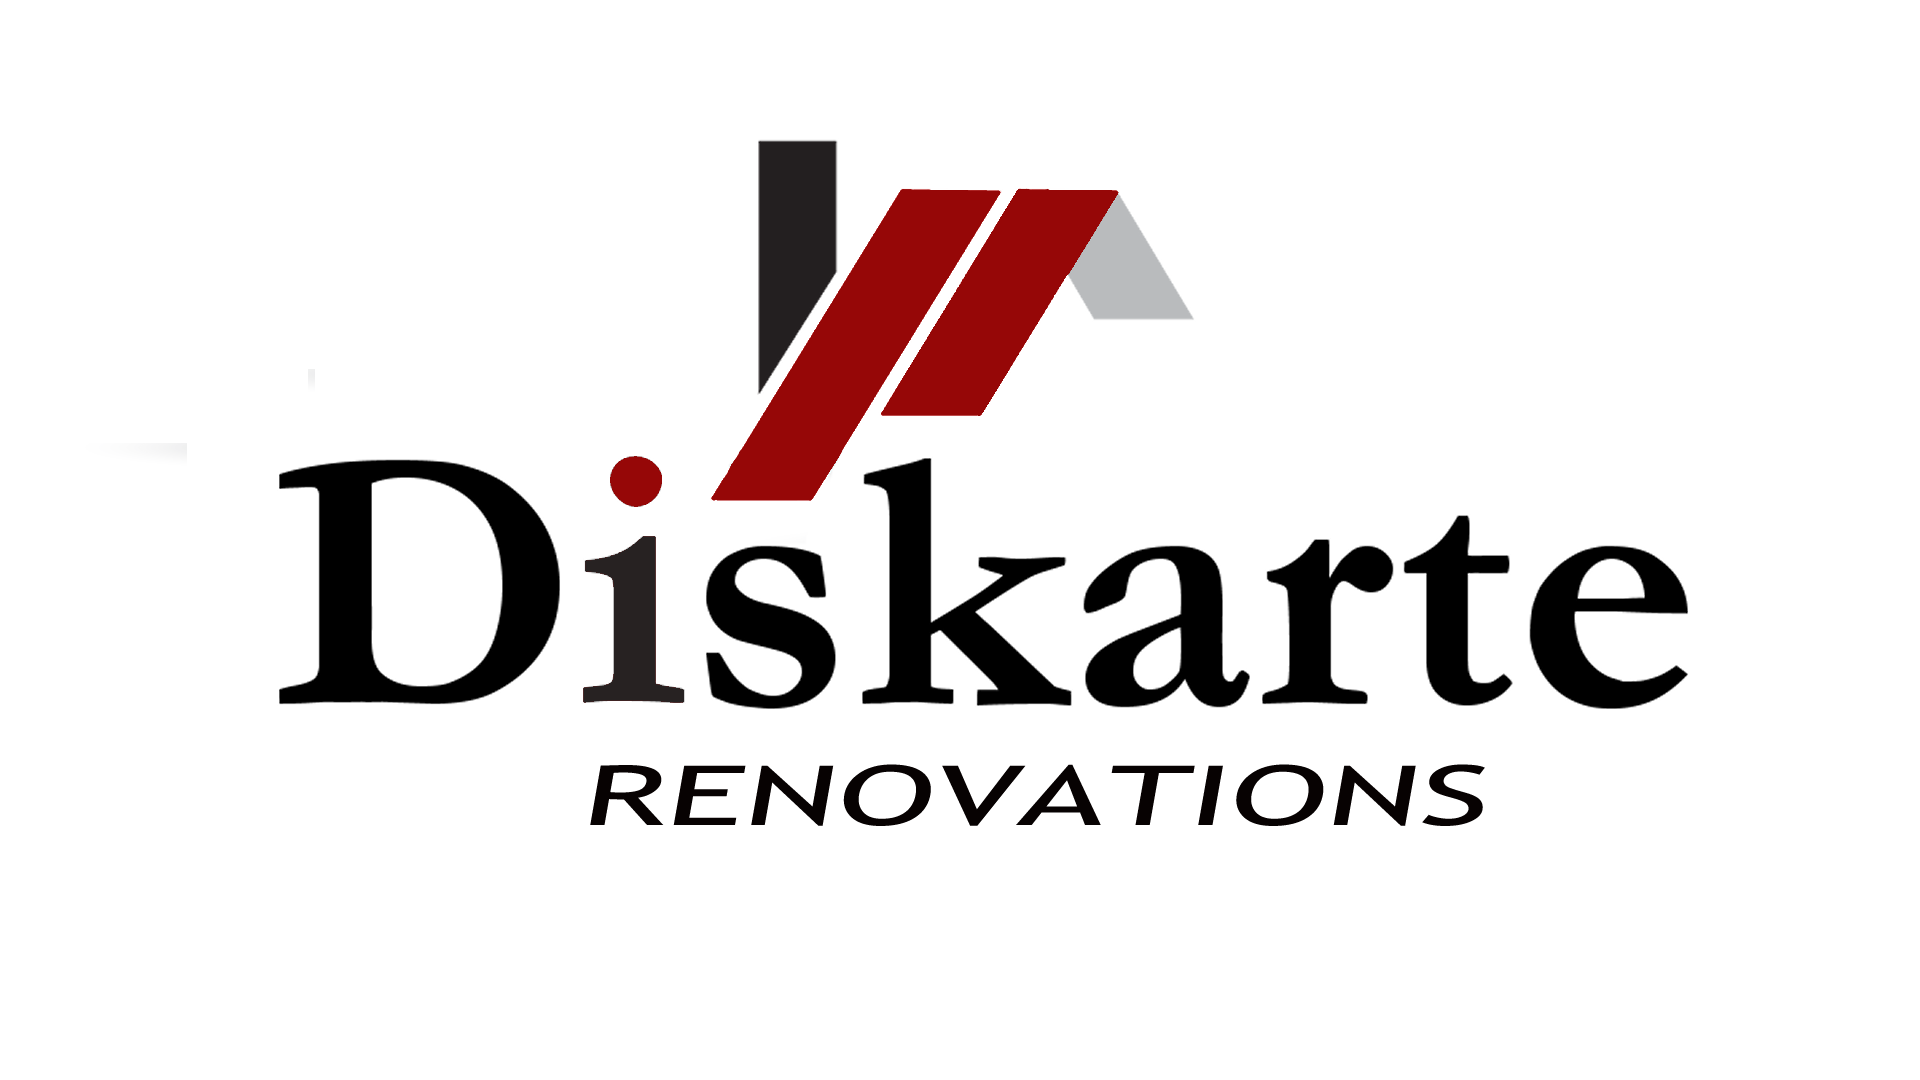
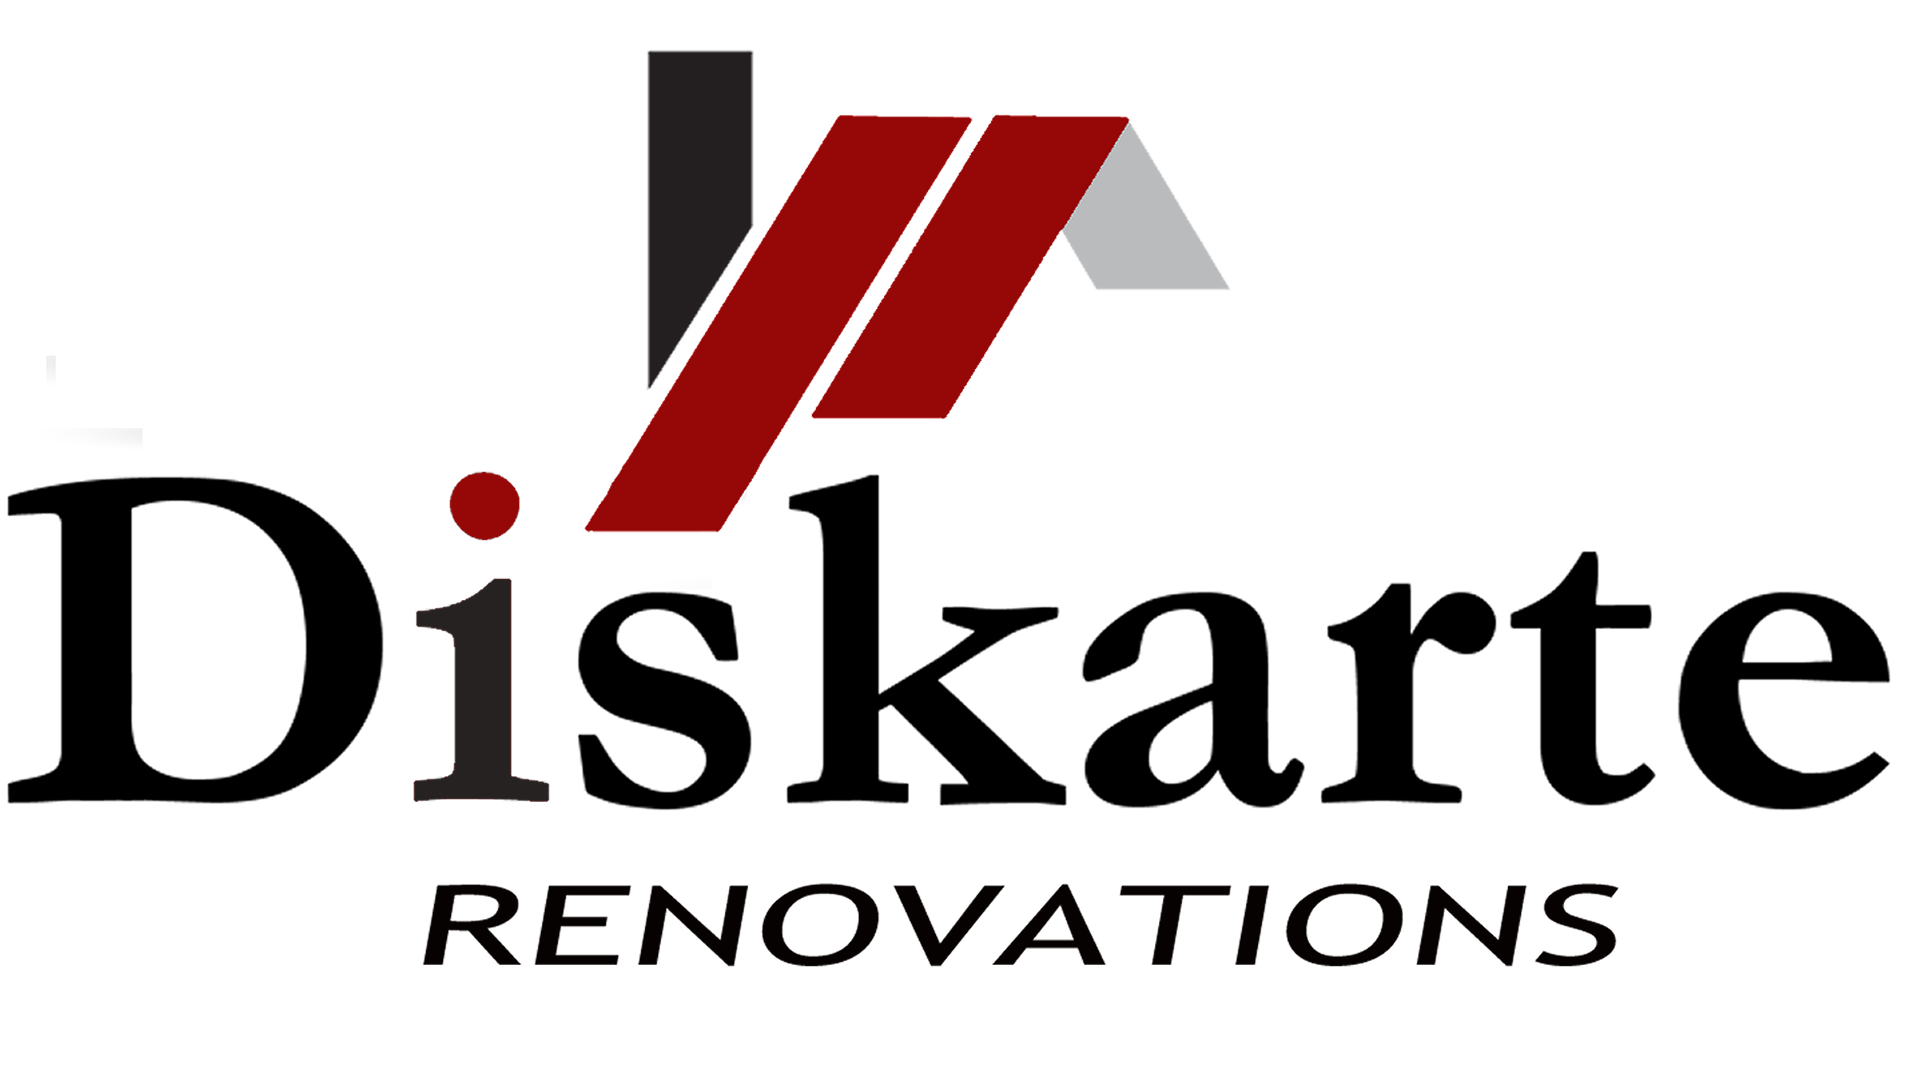
Add meta data

Changed region(s): [[0.0, 0.0306, 1.0, 0.7639], [0.2188, 0.7944, 0.8438, 0.9167]]

diff --git a/index.html b/index.html
@@ -3,16 +3,21 @@
 
 <head>
   <meta charset="UTF-8">
+  <meta property="og:title" content="Diskarte Renovations">
+  <meta property="og:image" content="images/diskarte_solid.png">
+  <meta name="description" content="We do roofing, deck and fences, and interior renvovations. Serving Kingston and the Surrounding Area.">
+  <meta name="keywords" content="Roofing, Deck and Fences, Interior Renovations">
   <meta name="viewport" content="width=device-width, initial-scale=1.0">
-  <title>Document</title>
+  <title>Diskarte Renovations</title>
   <link rel="stylesheet" href="https://cdnjs.cloudflare.com/ajax/libs/twitter-bootstrap/4.5.2/css/bootstrap.min.css">
   <link rel="stylesheet" href="https://cdnjs.cloudflare.com/ajax/libs/font-awesome/5.15.0/css/all.min.css">
   <link rel="stylesheet" href="css/main.css">
+  <link rel="icon" href="images/icon.png">
 </head>
 
 <body>
   <header>
-    <img src="images/diskarte_1.png" alt="diskarte_logo.png">
+    <img src="images/diskarte_solid.png" alt="diskarte_logo.png">
   </header>
   <nav class="navbar navbar-expand-lg">
     <button class="navbar-toggler custom-toggler" type="button" data-toggle="collapse" data-target="#navbarSupportedContent"

diff --git a/about.html b/about.html
@@ -3,16 +3,21 @@
 
 <head>
     <meta charset="UTF-8">
+    <meta property="og:title" content="Diskarte Renovations">
+    <meta property="og:image" content="images/diskarte_solid.png">
+    <meta name="description" content="We strive to provide excellent service and take pride in our craft.">
+    <meta name="keywords" content="Roofing, Deck and Fences, Interior Renovations">
     <meta name="viewport" content="width=device-width, initial-scale=1.0">
-    <title>Document</title>
+    <title>About Us</title>
     <link rel="stylesheet" href="https://cdnjs.cloudflare.com/ajax/libs/twitter-bootstrap/4.5.2/css/bootstrap.min.css">
     <link rel="stylesheet" href="https://cdnjs.cloudflare.com/ajax/libs/font-awesome/5.15.0/css/all.min.css">
     <link rel="stylesheet" href="css/main.css">
+    <link rel="icon" href="images/icon.png">
 </head>
 
 <body>
     <header>
-        <img src="images/diskarte_1.png" alt="diskarte_logo.png">
+        <img src="images/diskarte_solid.png" alt="diskarte_logo.png">
     </header>
     <nav class="navbar navbar-expand-lg">
         <button class="navbar-toggler custom-toggler" type="button" data-toggle="collapse"

diff --git a/contact.html b/contact.html
@@ -3,16 +3,21 @@
 
 <head>
     <meta charset="UTF-8">
+    <meta property="og:title" content="Diskarte Renovations">
+  <meta property="og:image" content="images/diskarte_solid.png">
+  <meta name="description" content="Call us or email us. We will get back to you as soon as possible.">
+  <meta name="keywords" content="Contact Us, Renovations">
     <meta name="viewport" content="width=device-width, initial-scale=1.0">
-    <title>Document</title>
+    <title>Contact Us</title>
     <link rel="stylesheet" href="https://cdnjs.cloudflare.com/ajax/libs/twitter-bootstrap/4.5.2/css/bootstrap.min.css">
     <link rel="stylesheet" href="https://cdnjs.cloudflare.com/ajax/libs/font-awesome/5.15.0/css/all.min.css">
     <link rel="stylesheet" href="css/main.css">
+    <link rel="icon" href="images/icon.png">
 </head>
 
 <body>
     <header>
-        <img src="images/diskarte_1.png" alt="diskarte_logo.png">
+        <img src="images/diskarte_solid.png" alt="diskarte_logo.png">
     </header>
     <nav class="navbar navbar-expand-lg">
         <button class="navbar-toggler custom-toggler" type="button" data-toggle="collapse"

diff --git a/gallery.html b/gallery.html
@@ -3,16 +3,21 @@
 
 <head>
     <meta charset="UTF-8">
+    <meta property="og:title" content="Diskarte Renovations">
+    <meta property="og:image" content="images/diskarte_solid.png">
+    <meta name="description" content="View our gallery of previous projects.">
+    <meta name="keywords" content="Roofing, Deck and Fences, Interior Renovations">
     <meta name="viewport" content="width=device-width, initial-scale=1.0">
-    <title>Document</title>
+    <title>Gallery</title>
     <link rel="stylesheet" href="https://cdnjs.cloudflare.com/ajax/libs/twitter-bootstrap/4.5.2/css/bootstrap.min.css">
     <link rel="stylesheet" href="https://cdnjs.cloudflare.com/ajax/libs/font-awesome/5.15.0/css/all.min.css">
     <link rel="stylesheet" href="css/main.css">
+    <link rel="icon" href="images/icon.png">
 </head>
 
 <body>
     <header>
-        <img src="images/diskarte_1.png" alt="diskarte_logo.png">
+        <img src="images/diskarte_solid.png" alt="diskarte_logo.png">
     </header>
     <nav class="navbar navbar-expand-lg">
         <button class="navbar-toggler custom-toggler" type="button" data-toggle="collapse"

diff --git a/deckandfences.html b/deckandfences.html
@@ -3,16 +3,21 @@
 
 <head>
   <meta charset="UTF-8">
+  <meta property="og:title" content="Diskarte Renovations">
+  <meta property="og:image" content="images/diskarte_solid.png">
+  <meta name="description" content="Need a new deck? Broken fences? Host in your backyard with pride.">
+  <meta name="keywords" content="Deck and Fences">
   <meta name="viewport" content="width=device-width, initial-scale=1.0">
-  <title>Document</title>
+  <title>Deck and Fences</title>
   <link rel="stylesheet" href="https://cdnjs.cloudflare.com/ajax/libs/twitter-bootstrap/4.5.2/css/bootstrap.min.css">
   <link rel="stylesheet" href="https://cdnjs.cloudflare.com/ajax/libs/font-awesome/5.15.0/css/all.min.css">
   <link rel="stylesheet" href="css/main.css">
+  <link rel="icon" href="images/icon.png">
 </head>
 
 <body>
   <header>
-    <img src="images/diskarte_1.png" alt="diskarte_logo.png">
+    <img src="images/diskarte_solid.png" alt="diskarte_logo.png">
   </header>
   <nav class="navbar navbar-expand-lg">
     <button class="navbar-toggler custom-toggler" type="button" data-toggle="collapse"

diff --git a/roofing.html b/roofing.html
@@ -3,16 +3,21 @@
 
 <head>
   <meta charset="UTF-8">
+  <meta property="og:title" content="Diskarte Renovations">
+  <meta property="og:image" content="images/diskarte_solid.png">
+  <meta name="description" content="Roof problems? Call us and get a free consultation.">
+  <meta name="keywords" content="Roofing">
   <meta name="viewport" content="width=device-width, initial-scale=1.0">
-  <title>Document</title>
+  <title>Roofing</title>
   <link rel="stylesheet" href="https://cdnjs.cloudflare.com/ajax/libs/twitter-bootstrap/4.5.2/css/bootstrap.min.css">
   <link rel="stylesheet" href="https://cdnjs.cloudflare.com/ajax/libs/font-awesome/5.15.0/css/all.min.css">
   <link rel="stylesheet" href="css/main.css">
+  <link rel="icon" href="images/icon.png">
 </head>
 
 <body>
   <header>
-    <img src="images/diskarte_1.png" alt="diskarte_logo.png">
+    <img src="images/diskarte_solid.png" alt="diskarte_logo.png">
   </header>
   <nav class="navbar navbar-expand-lg">
     <button class="navbar-toggler custom-toggler" type="button" data-toggle="collapse"

diff --git a/quote.html b/quote.html
@@ -4,15 +4,16 @@
 <head>
     <meta charset="UTF-8">
     <meta name="viewport" content="width=device-width, initial-scale=1.0">
-    <title>Document</title>
+    <title>Request A Quote</title>
     <link rel="stylesheet" href="https://cdnjs.cloudflare.com/ajax/libs/twitter-bootstrap/4.5.2/css/bootstrap.min.css">
     <link rel="stylesheet" href="https://cdnjs.cloudflare.com/ajax/libs/font-awesome/5.15.0/css/all.min.css">
     <link rel="stylesheet" href="css/main.css">
+    <link rel="icon" href="images/icon.png">
 </head>
 
 <body>
     <header>
-        <img src="images/diskarte_1.png" alt="diskarte_logo.png">
+        <img src="images/diskarte_solid.png" alt="diskarte_logo.png">
     </header>
     <nav class="navbar navbar-expand-lg">
         <button class="navbar-toggler custom-toggler" type="button" data-toggle="collapse"

diff --git a/renovations.html b/renovations.html
@@ -4,15 +4,16 @@
 <head>
   <meta charset="UTF-8">
   <meta name="viewport" content="width=device-width, initial-scale=1.0">
-  <title>Document</title>
+  <title>Interior Renovations</title>
   <link rel="stylesheet" href="https://cdnjs.cloudflare.com/ajax/libs/twitter-bootstrap/4.5.2/css/bootstrap.min.css">
   <link rel="stylesheet" href="https://cdnjs.cloudflare.com/ajax/libs/font-awesome/5.15.0/css/all.min.css">
   <link rel="stylesheet" href="css/main.css">
+  <link rel="icon" href="images/icon.png">
 </head>
 
 <body>
   <header>
-    <img src="images/diskarte_1.png" alt="diskarte_logo.png">
+    <img src="images/diskarte_solid.png" alt="diskarte_logo.png">
   </header>
   <nav class="navbar navbar-expand-lg">
     <button class="navbar-toggler custom-toggler" type="button" data-toggle="collapse"
